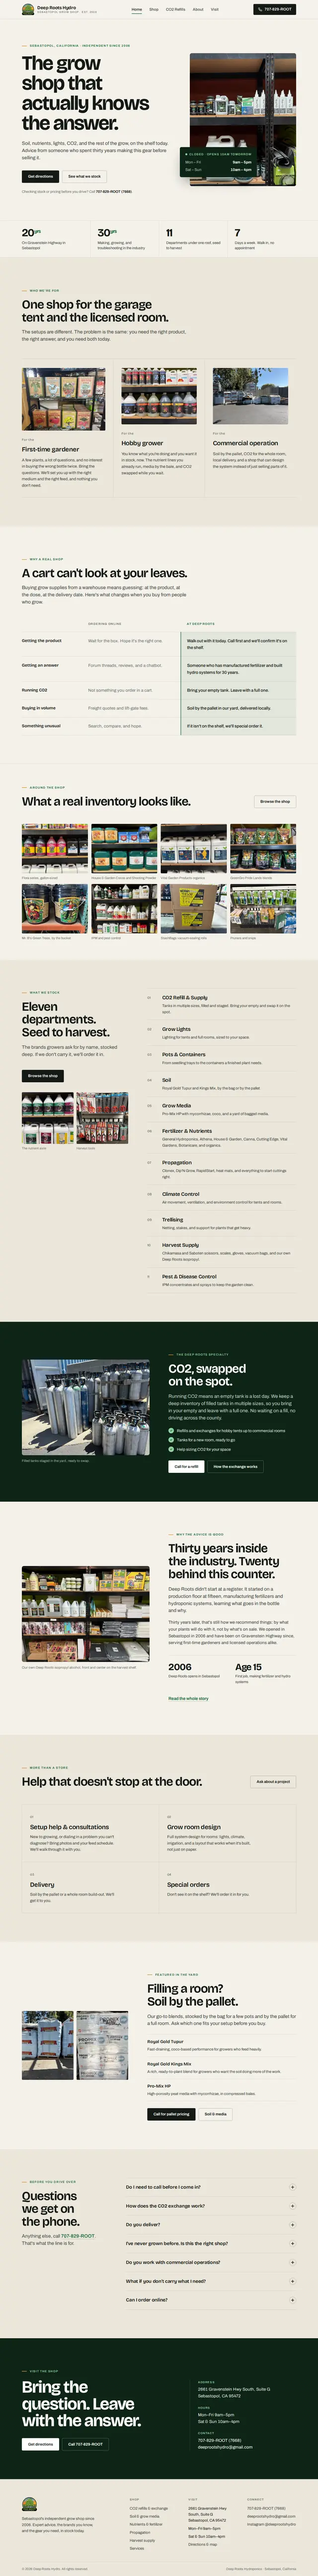
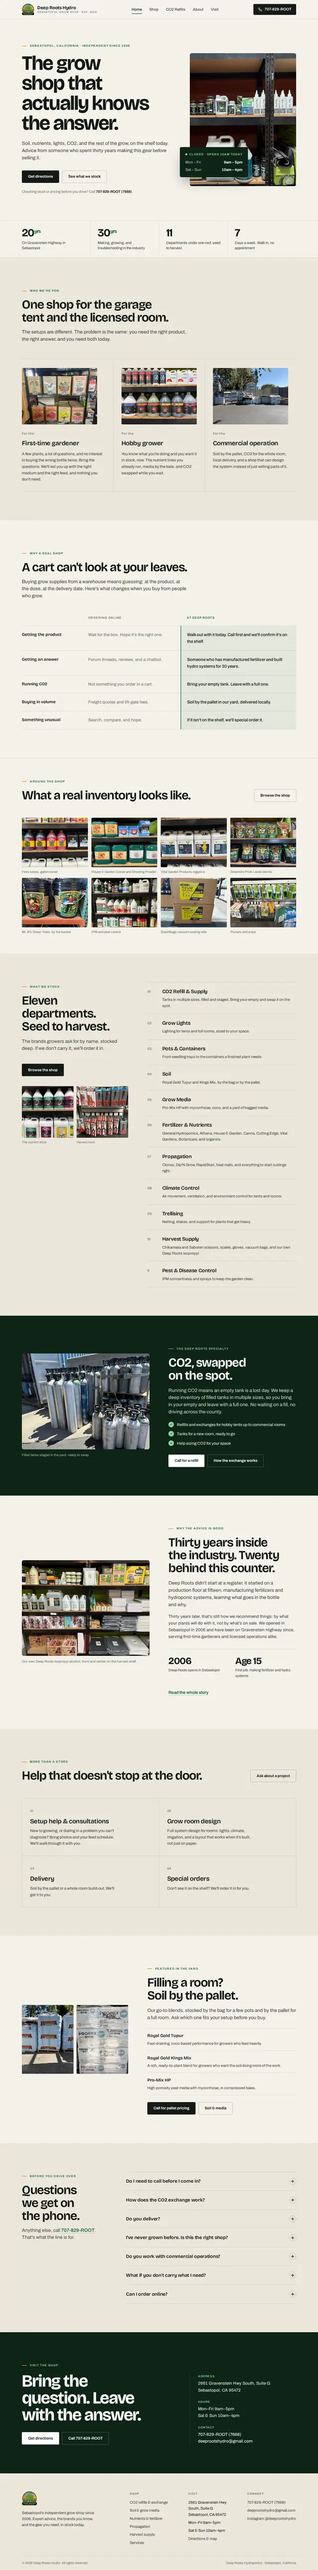
Client work: recapture the Deep Roots homepage
Fresh full-page shot of deeproots707.com, 1280x10343 (it was 10368),
reduced motion emulated so no reveal-on-scroll section is caught
invisible. Exports at 960x7757 and 640x5172; --travel and the img
height follow the new length.

diff --git a/index.html b/index.html
@@ -308,11 +308,11 @@ fbq('track', 'PageView');
   .client-url svg { flex: none; width: 12px; height: 12px; color: var(--accent-deep); }
   .client-url b { min-width: 0; overflow: hidden; text-overflow: ellipsis; white-space: nowrap; font-weight: 400; }
   .client-live { flex: none; padding: 3px 9px; border-radius: 999px; background: var(--accent-deep); color: #fff; font-size: 11px; font-weight: 700; letter-spacing: .06em; text-transform: uppercase; }
-  /* The picture is the whole homepage, 1280x10368 captured top to footer, travelling up behind a window the shape of
+  /* The picture is the whole homepage, 1280x10343 captured top to footer, travelling up behind a window the shape of
      a browser's, so a visitor sees the entire page without leaving this one. --travel is how far it has to go: the
      window is 1/1.6 of its own width tall and the picture is 8.1 of it, so the picture must rise by all but
      (1 / 1.6) / 8.1 of its height. Recapture at a different length and this number changes with it. */
-  .client-view { display: block; position: relative; overflow: hidden; aspect-ratio: 16 / 10; background: #f5f2ec; --travel: -92.28%; }
+  .client-view { display: block; position: relative; overflow: hidden; aspect-ratio: 16 / 10; background: #f5f2ec; --travel: -92.27%; }
   .client-shot { position: absolute; left: 0; top: 0; display: block; width: 100%; height: auto; }
   /* Down the page at a reading pace, a beat at the footer, then a quick eased rewind and away again. The long
      descent is linear so it reads as scrolling; only the rewind is eased, which is what makes it read as a reset
@@ -1024,7 +1024,7 @@ fbq('track', 'PageView');
           <span class="client-live">Live</span>
         </span>
         <span class="client-view">
-          <img class="client-shot" src="assets/img/deep-roots-home-960.webp" srcset="assets/img/deep-roots-home-640.webp 640w, assets/img/deep-roots-home-960.webp 960w" sizes="(max-width: 1000px) 92vw, 46vw" width="960" height="7776" alt="The Deep Roots Hydro homepage in full, from the first screen down to the footer" loading="lazy" decoding="async">
+          <img class="client-shot" src="assets/img/deep-roots-home-960.webp" srcset="assets/img/deep-roots-home-640.webp 640w, assets/img/deep-roots-home-960.webp 960w" sizes="(max-width: 1000px) 92vw, 46vw" width="960" height="7757" alt="The Deep Roots Hydro homepage in full, from the first screen down to the footer" loading="lazy" decoding="async">
         </span>
       </a>
       <p class="client-cap">This is a client&rsquo;s website, live on their own domain. Open it and look around.</p>

diff --git a/README.md b/README.md
@@ -44,8 +44,8 @@ not an option. When he gives one, it goes in the `.client-body` column under `.c
 style (`.founder-quote` is the model). It is the single biggest thing that would strengthen this section. Worth asking
 him for his blessing on being named here at the same time.
 
-The picture is the whole homepage, not its first screen: `assets/img/deep-roots-home-960.webp` (960x7776) and
-`-640.webp` (640x5184), captured 2026-09-19 from a 1280-wide viewport, 1280x10368 in all. It travels up behind a window
+The picture is the whole homepage, not its first screen: `assets/img/deep-roots-home-960.webp` (960x7757) and
+`-640.webp` (640x5172), captured 2026-09-20 from a 1280-wide viewport, 1280x10343 in all. It travels up behind a window
 the shape of a browser's, so a visitor sees the entire page without leaving this one: half a second held at the top,
 forty seconds down at a reading pace, two at the footer, then 1.8s of eased rewind and six tenths held again — 44.9s a
 cycle. The two holds at the top meet across the loop's seam, so what a viewer sees there is one pause of 1.1s (it was
